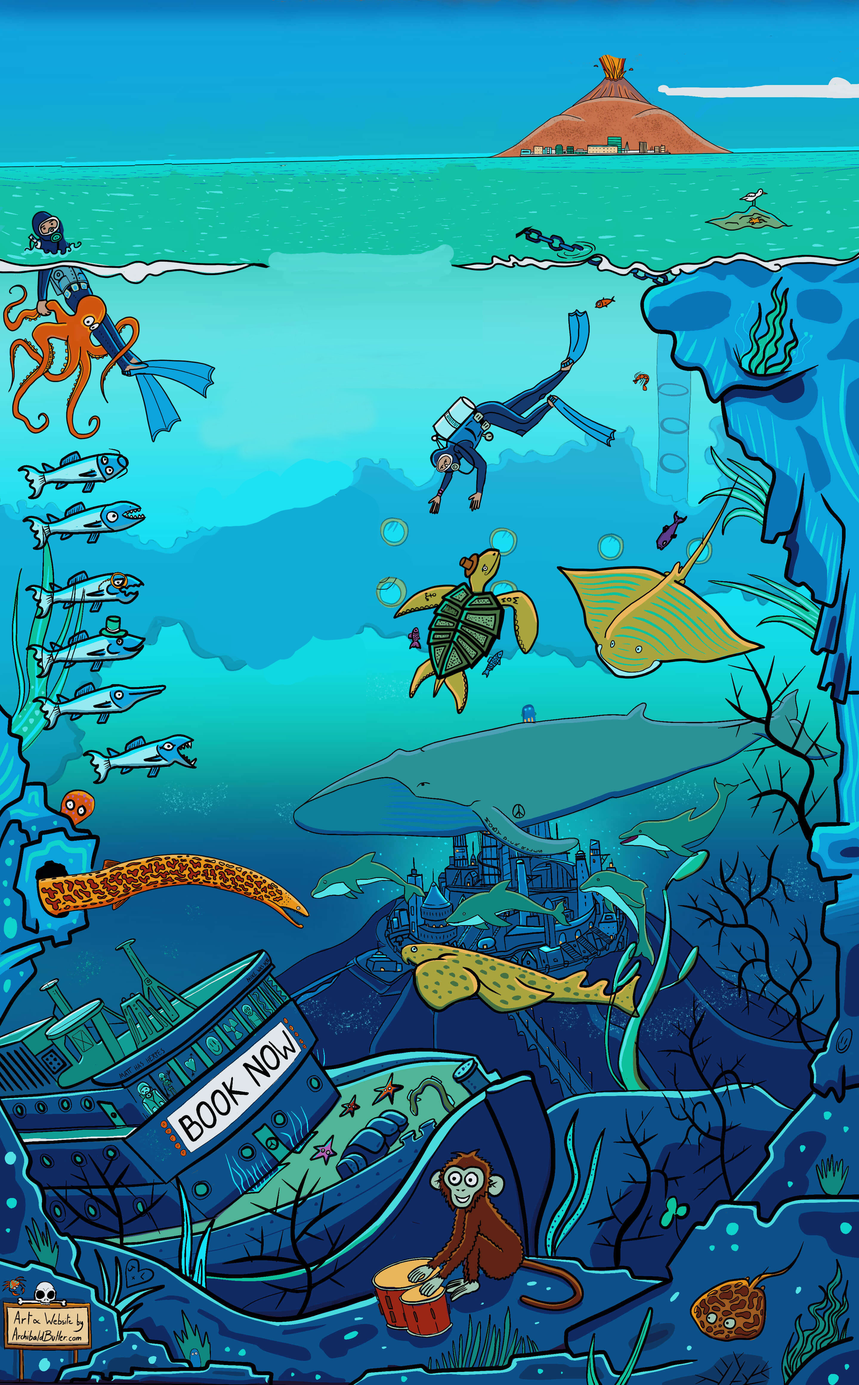
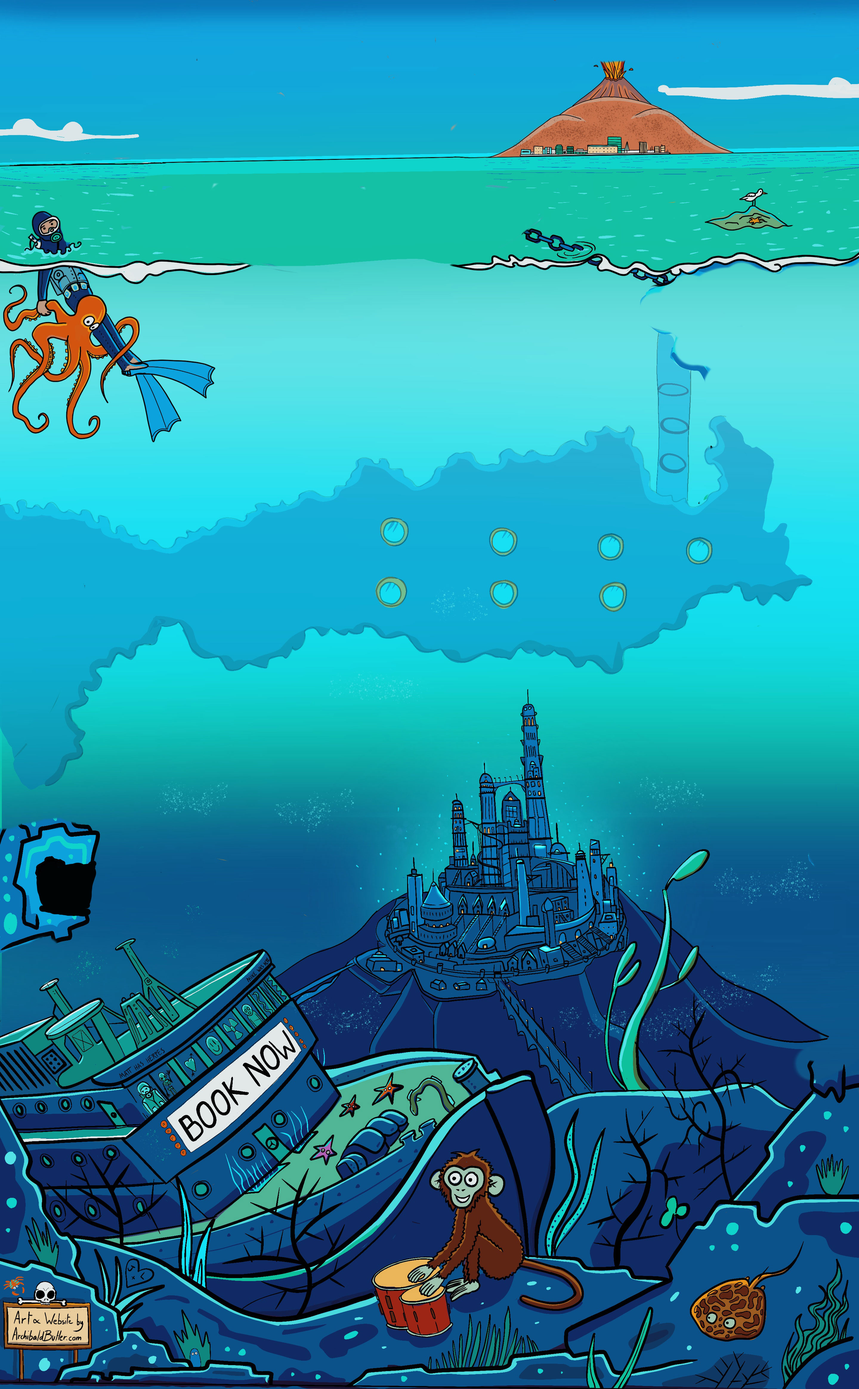
fish

diff --git a/src/assets/js/Home.tsx b/src/assets/js/Home.tsx
@@ -13,30 +13,32 @@ function Home() {
     <div className='gonza_arm'></div>
    </div>
    <div className='diver_arm'></div>
+   <div className="dolphin_contain">
+    <div className="dolphin"></div>
+   </div>
    <div className="jellyfish"></div>
-   <div className="zebra_fish"></div>
-   <div className="gold_fish"></div>
-   <div className="blue_fish"></div>
+   <div className="whale"></div>
+   <div className="ray"></div>
+
    <div className="diver"></div>
-   <div className="little_fish"></div>
+   <div className="cliff_right"></div>
+   <div className="eel">
+    <div className="eel_mouth"></div>
+   </div>
+   <div className="cliff_left"></div>
+   <div className="turtle"></div>
    <div className="prawn"></div>
+   <div className="little_fish"></div>
+   <div className="gold_fish"></div>
+   <div className="zebra_fish"></div>
+   <div className="blue_fish"></div>
    <div className="barra1"></div>
    <div className="barra2"></div>
    <div className="barra3"></div>
    <div className="barra4"></div>
    <div className="barra5"></div>
    <div className="barra6"></div>
-   <div className="turtle"></div>
-   <div className="ray"></div>
-   <div className="whale"></div>
    <div className="bask"></div>
-   <div className="eel">
-    <div className="eel_mouth"></div>
-   </div>
-   <div className="dolphin_contain">
-    <div className="dolphin"></div>
-   </div>
-
    <div className="App_bubbles">
     <div className="bubble x1"></div>
     <div className="bubble x2"></div>

diff --git a/src/assets/js/Home.scss b/src/assets/js/Home.scss
@@ -563,6 +563,26 @@
         width: 72%;
         animation: whale 79s linear infinite;
     }
+    .cliff_right {
+        background: url('./../img/cliff_right.png');
+        background-size: 100% auto;
+        background-repeat: no-repeat;
+        position: absolute;
+        left: 73.5%;
+        top: 16.1%;
+        height: 74%;
+        width: 26.4%;
+    }
+    .cliff_left {
+        background: url('./../img/cliff_left.png');
+        background-size: 100% auto;
+        background-repeat: no-repeat;
+        position: absolute;
+        left: 0%;
+        top: 37%;
+        height: 74%;
+        width: 11.9%;
+    }
     .bask {
         background: url('./../img/bask.png');
         background-size: 100% auto;
@@ -583,7 +603,7 @@
         top: 61.7%;
         height: 14%;
         width: 33%;
-        animation: eel 4s alternate infinite;
+        animation: eel 1s alternate infinite;
         .eel_mouth {
             background: url('./../img/eel_mouth.png');
             background-size: 100% auto;
